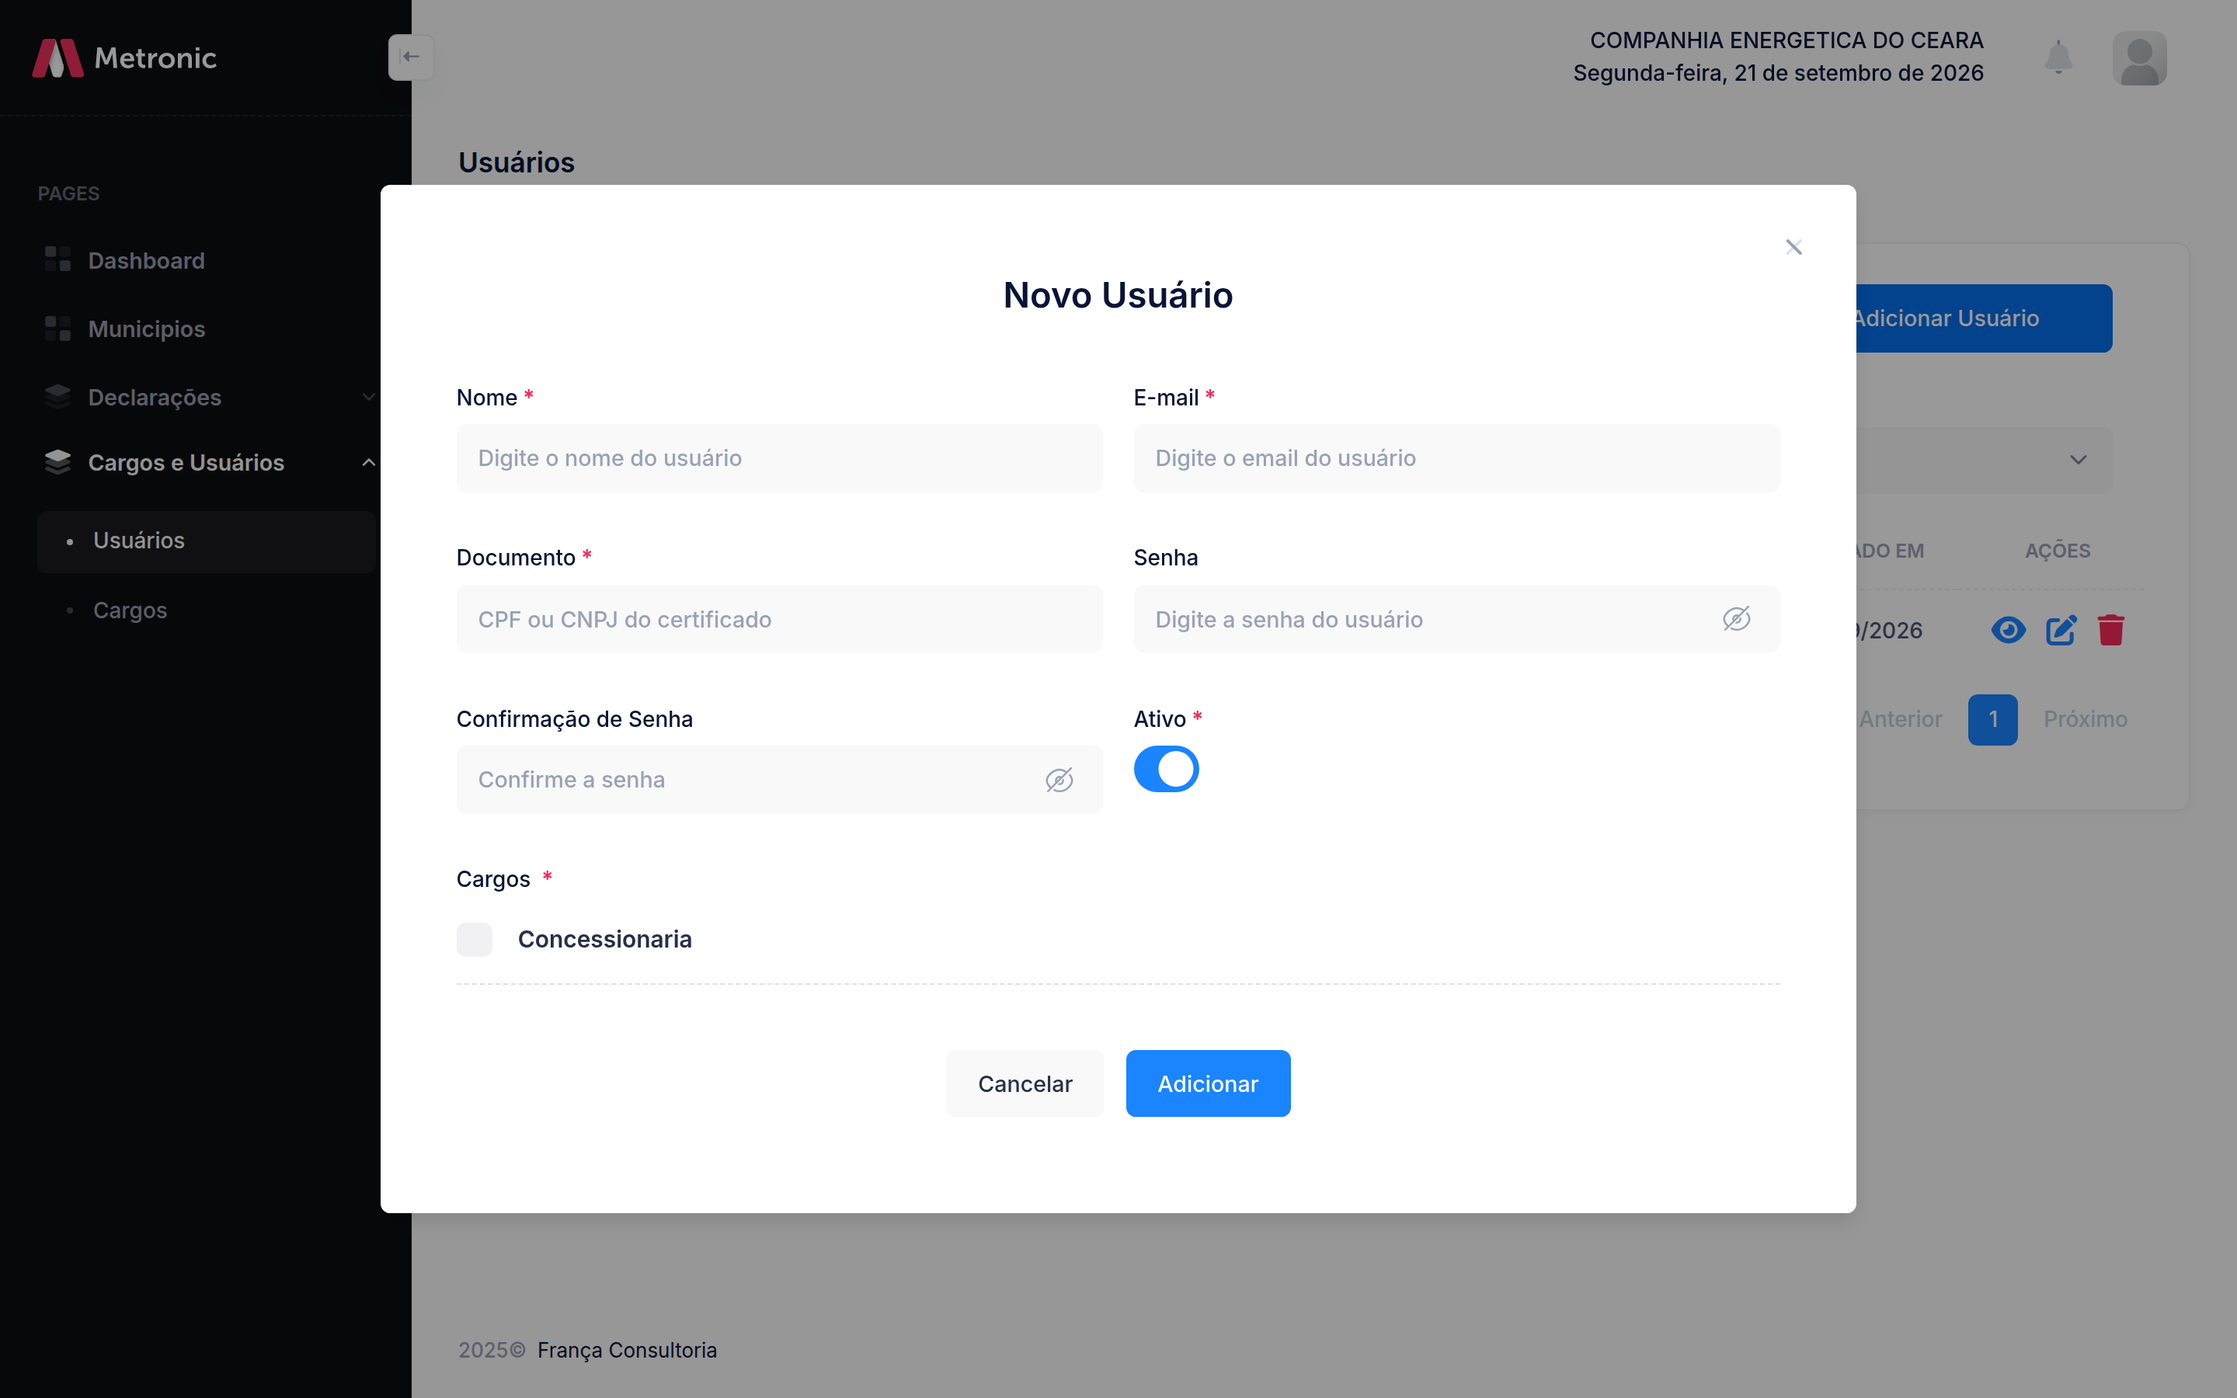
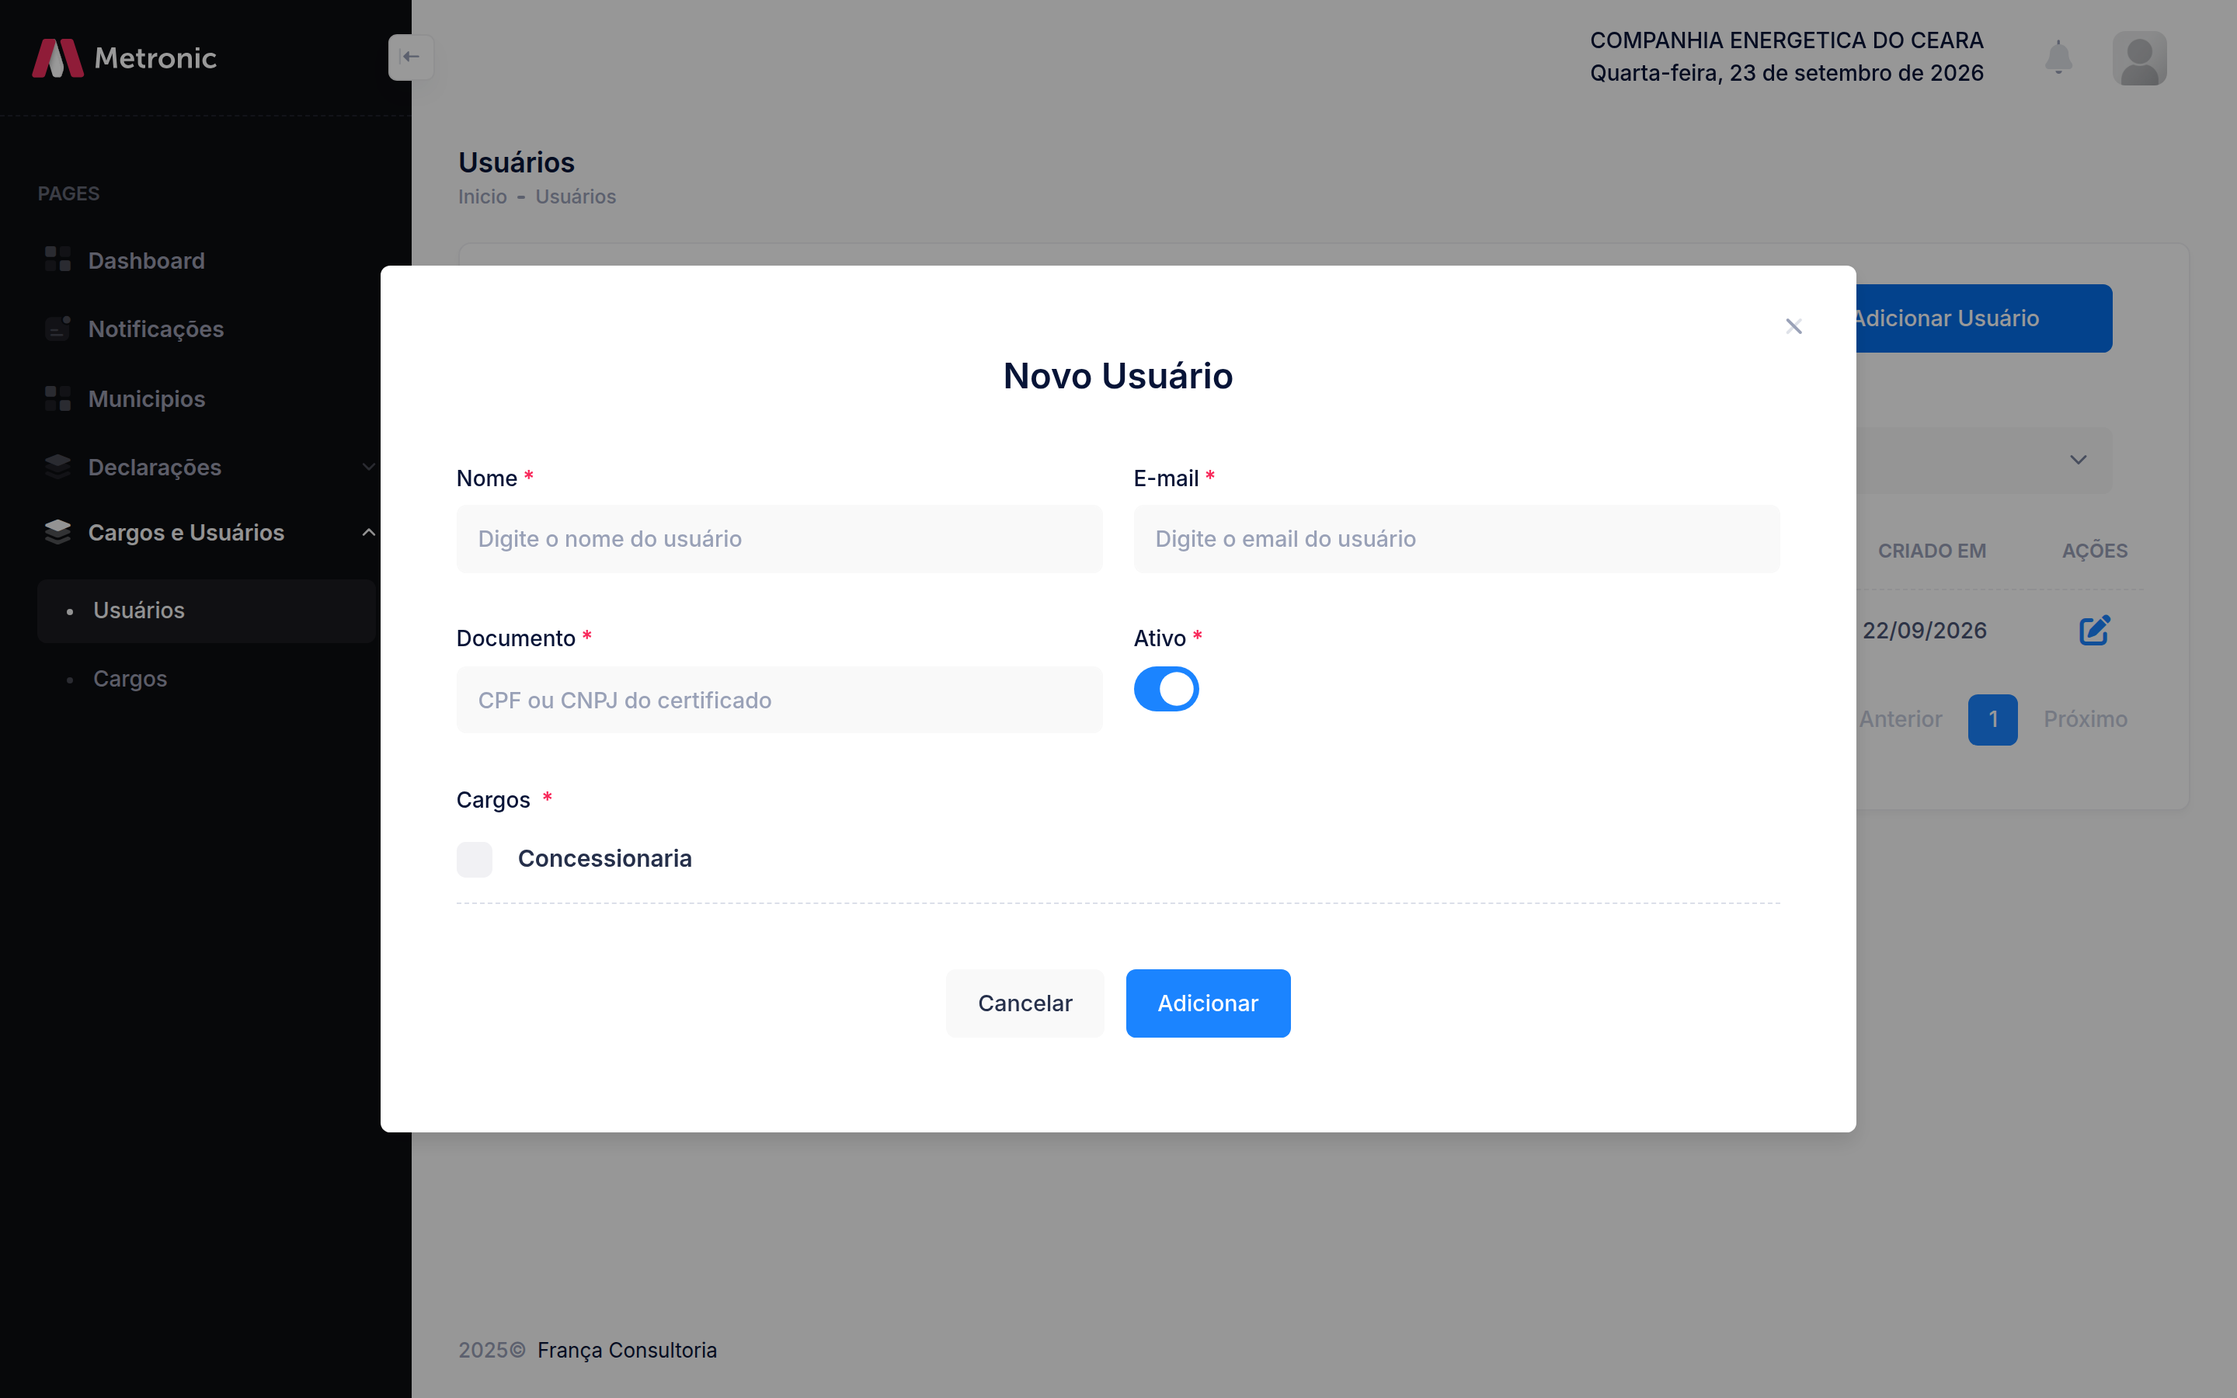
docs: atualiza usuários no guia do painel
A listagem, o cadastro e a alteração deixam de mostrar consulta e senha, acompanhando o acesso por certificado.

diff --git a/guia-painel-concessionaria.html b/guia-painel-concessionaria.html
@@ -380,10 +380,9 @@
         <ol class="sub">
           <li><a href="#s4-1">Finalidade</a></li>
           <li><a href="#s4-2">Listagem</a></li>
-          <li><a href="#s4-3">Consulta</a></li>
-          <li><a href="#s4-4">Novo usuário</a></li>
-          <li><a href="#s4-5">Alteração e exclusão</a></li>
-          <li><a href="#s4-6">Acesso ao painel</a></li>
+          <li><a href="#s4-3">Novo usuário</a></li>
+          <li><a href="#s4-4">Alteração e exclusão</a></li>
+          <li><a href="#s4-5">Acesso ao painel</a></li>
         </ol>
       </li>
       <li><a href="#s5">Declarações</a>
@@ -553,31 +552,24 @@
     <p>O módulo <strong>Usuários</strong> cadastra as pessoas que acessam o painel da concessionária. Cada usuário tem documento (CPF ou CNPJ do certificado de autenticação), situação ativo/inativo e ao menos um cargo. O cargo determina o que a pessoa consulta e opera; o documento é o que o sistema confronta no acesso por certificado (seção 1).</p>
 
     <div class="subsecao-titulo" id="s4-2">4.2 Listagem</div>
-    <p>A listagem apresenta nome, cargos, e-mail, documento, status e data de criação. Filtros por nome, e-mail e cargo recortam a mesma relação. A inclusão de novos usuários aparece somente para o usuário principal da concessionária, com permissão de gerenciar usuários.</p>
+    <p>A listagem apresenta nome, cargos, e-mail, documento, status e data de criação. Filtros por nome, e-mail e cargo recortam a mesma relação. A inclusão de novos usuários aparece somente para o usuário principal da concessionária, com permissão de gerenciar usuários. Cada linha oferece alterar e, nas demais contas, excluir.</p>
     <figure class="figura">
       <img src="imagens/painel-concessionaria/13-usuarios.png" alt="Listagem de usuários da concessionária, com filtros e o botão Adicionar Usuário">
-      <figcaption><strong>Figura 12.</strong> Usuários da concessionária, com filtros e Adicionar Usuário para o usuário principal. Consulta e alteração ficam em todas as linhas; a exclusão só nas demais contas.</figcaption>
+      <figcaption><strong>Figura 12.</strong> Usuários da concessionária, com filtros e Adicionar Usuário para o usuário principal. A alteração fica em todas as linhas; a exclusão só nas demais contas.</figcaption>
     </figure>
 
-    <div class="subsecao-titulo" id="s4-3">4.3 Consulta</div>
-    <p>A consulta exibe nome, e-mail, documento, status, cargos atribuídos e as datas de cadastro e atualização.</p>
+    <div class="subsecao-titulo" id="s4-3">4.3 Novo usuário</div>
+    <p>O cadastro exige nome, e-mail, documento (CPF ou CNPJ do certificado) e pelo menos um cargo. A situação inicia como ativo. O acesso ao painel permanece pelo certificado digital (seção 1.2). E-mail e documento não podem coincidir com outro usuário já cadastrado.</p>
     <figure class="figura">
-      <img src="imagens/painel-concessionaria/14-usuario-detalhe.png" alt="Detalhes do usuário com documento, status Ativo e cargo Concessionaria">
-      <figcaption><strong>Figura 13.</strong> Consulta do usuário. O documento coincide com o certificado de autenticação; o status Ativo admite o acesso.</figcaption>
+      <img src="imagens/painel-concessionaria/15-usuario-novo.png" alt="Formulário Novo Usuário com nome, e-mail, documento, status e cargos">
+      <figcaption><strong>Figura 13.</strong> Cadastro de usuário. Documento é o CPF ou CNPJ do certificado; Cargos é obrigatório.</figcaption>
     </figure>
 
-    <div class="subsecao-titulo" id="s4-4">4.4 Novo usuário</div>
-    <p>O cadastro exige nome, e-mail, documento (CPF ou CNPJ do certificado) e pelo menos um cargo. A situação inicia como ativo. A senha é opcional: o acesso ao painel da concessionária permanece pelo certificado digital, não por e-mail e senha (seção 1.2). E-mail e documento não podem coincidir com outro usuário já cadastrado.</p>
-    <figure class="figura">
-      <img src="imagens/painel-concessionaria/15-usuario-novo.png" alt="Formulário Novo Usuário com nome, e-mail, documento, senha, status e cargos">
-      <figcaption><strong>Figura 14.</strong> Cadastro de usuário. Documento é o CPF ou CNPJ do certificado; Cargos é obrigatório.</figcaption>
-    </figure>
-
-    <div class="subsecao-titulo" id="s4-5">4.5 Alteração e exclusão</div>
-    <p>A alteração reedita os mesmos campos. Senha em branco conserva a senha atual. A exclusão remove outro usuário da concessionária. A conta autenticada não exibe a ação de excluir, e o sistema recusa a operação se ela for solicitada. Usuário inativo permanece na listagem, mas o acesso por certificado é recusado (seção 1.4).</p>
+    <div class="subsecao-titulo" id="s4-4">4.4 Alteração e exclusão</div>
+    <p>A alteração reedita nome, e-mail, documento, situação e cargos. A exclusão remove outro usuário da concessionária. A conta autenticada não exibe a ação de excluir, e o sistema recusa a operação se ela for solicitada. Usuário inativo permanece na listagem, mas o acesso por certificado é recusado (seção 1.4).</p>
     <figure class="figura">
       <img src="imagens/painel-concessionaria/16-usuario-editar.png" alt="Formulário Editar Usuário com os dados preenchidos e o cargo Concessionaria marcado">
-      <figcaption><strong>Figura 15.</strong> Alteração de usuário. Senha em branco não altera a senha vigente; o cargo permanece obrigatório.</figcaption>
+      <figcaption><strong>Figura 14.</strong> Alteração de usuário. O cargo permanece obrigatório.</figcaption>
     </figure>
     <table>
       <tr><th>Condição</th><th>Efeito</th></tr>
@@ -589,7 +581,7 @@
       <tr><td>Documento do certificado ≠ documento cadastrado</td><td>Acesso recusado (seção 1.4)</td></tr>
     </table>
 
-    <div class="subsecao-titulo" id="s4-6">4.6 Acesso ao painel</div>
+    <div class="subsecao-titulo" id="s4-5">4.5 Acesso ao painel</div>
     <p>O usuário autenticado no painel da concessionária é o que tem documento coincidente com o certificado apresentado, está ativo e possui cargo do contexto. A atribuição de cargos está na seção 3.6.</p>
   </div>
 
@@ -615,7 +607,7 @@
     <p>A lista não traz arquivo rejeitado nem entrega ainda em validação. Entram somente as declarações municipais com status <strong>Concluído</strong> ou <strong>Retificada</strong>. A consulta abre o detalhe; o download do arquivo aparece na linha, exceto quando o status é Retificada.</p>
     <figure class="figura">
       <img src="imagens/painel-concessionaria/17-declaracoes-ucs.png" alt="Listagem de declarações UCS com município, protocolo, tipo, competência, status e protocolo retificada">
-      <figcaption><strong>Figura 16.</strong> Declarações de UCS. Extrato COSIP/CIP, Extrato IP e Conciliação Financeira repetem os mesmos filtros, colunas e ações; muda o título da página e o item marcado no menu.</figcaption>
+      <figcaption><strong>Figura 15.</strong> Declarações de UCS. Extrato COSIP/CIP, Extrato IP e Conciliação Financeira repetem os mesmos filtros, colunas e ações; muda o título da página e o item marcado no menu.</figcaption>
     </figure>
     <table>
       <tr><th>Coluna</th><th>Conteúdo</th></tr>
@@ -631,14 +623,14 @@
     <p>A consulta, intitulada <strong>Detalhes da Declaração</strong>, mostra município, protocolo, competência, data do protocolo, tipo e módulo. Na retificadora, também mostra o protocolo da declaração retificada. O arquivo pode ser baixado nesta tela, salvo quando a declaração está retificada: nesse caso o download fica indisponível.</p>
     <figure class="figura">
       <img src="imagens/painel-concessionaria/22-declaracao-detalhe-ucs.png" alt="Detalhe da declaração de unidades de consumo do município de Tianguá, com protocolo, competência e botão Baixar Arquivo">
-      <figcaption><strong>Figura 17.</strong> Consulta da declaração municipal. O mesmo cartão vale para os quatro módulos; o campo Módulo identifica a entrega.</figcaption>
+      <figcaption><strong>Figura 16.</strong> Consulta da declaração municipal. O mesmo cartão vale para os quatro módulos; o campo Módulo identifica a entrega.</figcaption>
     </figure>
 
     <div class="subsecao-titulo" id="s5-5">5.5 Envio do arquivo</div>
     <p><strong>Nova Declaração</strong> abre o mesmo formulário nos quatro módulos. O único campo é o arquivo <span class="inline-code">.p7s</span>, arrastado para a área ou escolhido no computador. O formato aceito é P7S, um arquivo por envio. <strong>Importar</strong> inicia a validação; <strong>Cancelar</strong> fecha a janela sem enviar.</p>
     <figure class="figura">
       <img src="imagens/painel-concessionaria/21-declaracao-upload-ucs.png" alt="Janela Importar Cadastro de Ucs com a área para arrastar o arquivo p7s e os botões Cancelar e Importar">
-      <figcaption><strong>Figura 18.</strong> Envio do arquivo de UCS. Nos demais módulos a janela é a mesma; o título passa a Importar Extrato COSIP/CIP, Importar Extrato IP ou Importar Conciliação Financeira.</figcaption>
+      <figcaption><strong>Figura 17.</strong> Envio do arquivo de UCS. Nos demais módulos a janela é a mesma; o título passa a Importar Extrato COSIP/CIP, Importar Extrato IP ou Importar Conciliação Financeira.</figcaption>
     </figure>
     <p>Arquivo ausente, formato diferente de P7S ou tamanho acima do limite é recusado antes da validação de conteúdo. Se já existir validação ou processamento em andamento de um módulo que bloqueia o envio, o painel recusa o arquivo e pede para aguardar a finalização. O aviso informa o módulo em andamento, o protocolo e a etapa atual.</p>
     <table>
@@ -650,14 +642,14 @@
     </table>
     <figure class="figura">
       <img src="imagens/painel-concessionaria/30-declaracao-em-andamento.png" alt="Aviso de que não é possível iniciar a declaração UC porque há processamento em andamento">
-      <figcaption><strong>Figura 21.</strong> Envio recusado enquanto há validação ou processamento em andamento. O mesmo aviso cobre o bloqueio do próprio módulo e o bloqueio cruzado entre UCS e Extrato COSIP/CIP.</figcaption>
+      <figcaption><strong>Figura 20.</strong> Envio recusado enquanto há validação ou processamento em andamento. O mesmo aviso cobre o bloqueio do próprio módulo e o bloqueio cruzado entre UCS e Extrato COSIP/CIP.</figcaption>
     </figure>
 
     <div class="subsecao-titulo" id="s5-6">5.6 Validação em andamento</div>
     <p>Depois do envio, a mesma janela passa a acompanhar a validação. O título é <strong>Validando arquivo</strong>, com a situação <strong>Em andamento</strong>, o nome do arquivo, a barra de progresso e a lista de etapas. A janela pede para permanecer aberta até o comprovante de entrega. Enquanto a validação não termina, ela não se fecha pelo fundo nem pela tecla Esc.</p>
     <figure class="figura">
       <img src="imagens/painel-concessionaria/26-declaracao-validando.png" alt="Janela Validando arquivo, em andamento, com a etapa Validando municípios e registros">
-      <figcaption><strong>Figura 19.</strong> Validação em andamento. A mesma janela vale para os quatro módulos; mudam o nome do arquivo e o rótulo do módulo.</figcaption>
+      <figcaption><strong>Figura 18.</strong> Validação em andamento. A mesma janela vale para os quatro módulos; mudam o nome do arquivo e o rótulo do módulo.</figcaption>
     </figure>
     <p>Se a consulta do andamento falhar várias vezes seguidas, a janela informa <strong>Acompanhamento indisponível</strong> e orienta a atualizar a listagem para ver o estado da entrega.</p>
 
@@ -665,7 +657,7 @@
     <p>No aceite, o título muda para <strong>Arquivo aceito</strong> e a situação para <strong>Aceito</strong>. O comprovante traz o protocolo e o identificador da declaração. A orientação é guardar o número do protocolo; o tratamento posterior segue no sistema. Se houver alertas, a janela oferece <strong>Ver Alertas de Validação</strong>, com código, linha, campo, mensagem, valor encontrado e valor esperado, além do relatório completo para download.</p>
     <figure class="figura">
       <img src="imagens/painel-concessionaria/27-declaracao-resultado.png" alt="Janela Arquivo aceito com comprovante de entrega, protocolo e botão Fechar">
-      <figcaption><strong>Figura 20.</strong> Aceite da declaração. O comprovante mostra o protocolo da entrega e o identificador da declaração.</figcaption>
+      <figcaption><strong>Figura 19.</strong> Aceite da declaração. O comprovante mostra o protocolo da entrega e o identificador da declaração.</figcaption>
     </figure>
     <p>O alerta não rejeita o arquivo. Encerrada a janela, as declarações municipais dessa entrega passam a constar na listagem com status Concluído.</p>
 
@@ -673,12 +665,12 @@
     <p>Quando a validação encontra erro bloqueante, o título é <strong>Validação encontrou erros</strong> e a situação é <strong>Erros</strong>. A barra indica <strong>Validação falhou</strong>, as etapas com inconsistência aparecem em vermelho e a mensagem pede para corrigir e reenviar o arquivo.</p>
     <figure class="figura">
       <img src="imagens/painel-concessionaria/28-declaracao-erros.png" alt="Janela Validação encontrou erros, com a barra Validação falhou, etapas em vermelho e o botão Ver Erros Detalhados">
-      <figcaption><strong>Figura 22.</strong> Rejeição do arquivo. A mesma janela vale para os quatro módulos. <strong>Ver Erros Detalhados</strong> abre o relatório; <strong>Fechar</strong> encerra sem gerar declaração municipal.</figcaption>
+      <figcaption><strong>Figura 21.</strong> Rejeição do arquivo. A mesma janela vale para os quatro módulos. <strong>Ver Erros Detalhados</strong> abre o relatório; <strong>Fechar</strong> encerra sem gerar declaração municipal.</figcaption>
     </figure>
     <p><strong>Ver Erros Detalhados</strong> abre o relatório na mesma estrutura dos alertas: resumo por categoria, amostra das ocorrências em cada categoria e o relatório completo para download, em <strong>Baixar Relatório</strong> e em <strong>Baixar TXT</strong>.</p>
     <figure class="figura">
       <img src="imagens/painel-concessionaria/29-declaracao-erros-detalhados.png" alt="Janela Erros de Validação com resumo por categoria Município e botões Baixar Relatório e Baixar TXT">
-      <figcaption><strong>Figura 23.</strong> Relatório de erros. O exemplo traz uma ocorrência na categoria Município. Cada categoria abre a amostra das linhas; o relatório completo fica disponível para download.</figcaption>
+      <figcaption><strong>Figura 22.</strong> Relatório de erros. O exemplo traz uma ocorrência na categoria Município. Cada categoria abre a amostra das linhas; o relatório completo fica disponível para download.</figcaption>
     </figure>
     <p>Arquivo rejeitado não gera declaração municipal e não aparece na listagem. Não há protocolo de município para essa entrega.</p>
     <table>
